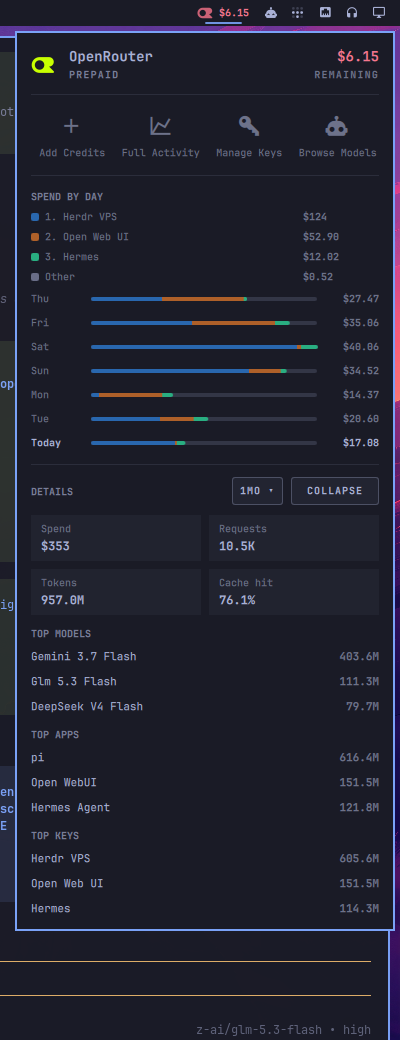
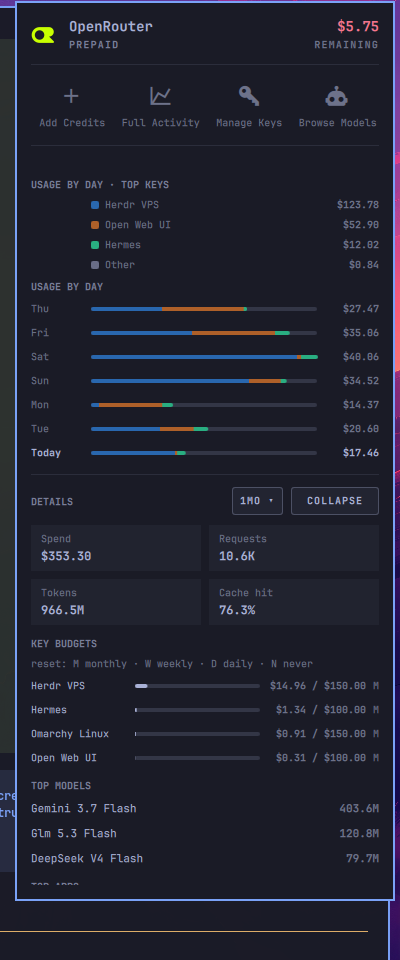
Final polish: titles, spacing, cadence letters, consistent amounts
- The chart splits into two titled blocks: USAGE BY DAY over the bars
  and USAGE BY DAY - TOP KEYS over the legend, each directly above
  what it names
- The reset cadence letter gets a space before it, renders dimmed in
  its own right-aligned slot, and a one-line legend under the KEY
  BUDGETS header spells out the meaning so tooltips stay optional
  (they do exist: every budget row shows remaining and cadence on
  hover)
- formatCost always prints two decimals below $1000, so $123.78 no
  longer collapses to $124 and every amount column lines up
- Breathing room between the account links and the first section
- README reworded for the new titles and budget features, with a
  fresh screenshot

diff --git a/Panel.qml b/Panel.qml
@@ -87,7 +87,8 @@ Panel {
     var n = Number(value || 0)
     if (!(n >= 0)) n = 0
     if (n >= 1000) return "$" + (n / 1000).toFixed(1) + "k"
-    return "$" + (n >= 100 ? n.toFixed(0) : n.toFixed(2))
+    // Always two decimals so a column of amounts never mixes widths.
+    return "$" + n.toFixed(2)
   }
 
   function balanceDetailText(b) {
@@ -641,6 +642,13 @@ Panel {
             foreground: root.foreground
           }
 
+          Item {
+            // Breathing room between the account links and the first section.
+            visible: spendSection.visible
+            width: parent.width
+            height: Style.space(6)
+          }
+
           Column {
             id: spendSection
             visible: root.days.length > 0
@@ -650,8 +658,9 @@ Panel {
             readonly property real peak: root.weekPeak()
 
             PanelSectionHeader {
+              visible: root.keyedBars
               width: parent.width
-              text: "USAGE THIS WEEK"
+              text: "USAGE BY DAY · TOP KEYS"
               foreground: root.foreground
               fontFamily: root.fontFamily
             }
@@ -716,6 +725,13 @@ Panel {
                   }
                 }
               }
+            }
+
+            PanelSectionHeader {
+              width: parent.width
+              text: "USAGE BY DAY"
+              foreground: root.foreground
+              fontFamily: root.fontFamily
             }
 
             Repeater {
@@ -882,6 +898,17 @@ Panel {
                   text: "KEY BUDGETS"
                   foreground: root.foreground
                   fontFamily: root.fontFamily
+                }
+
+                // What the trailing cadence letter on each row means.
+                Text {
+                  textFormat: Text.PlainText
+                  visible: budgetsSection.visible
+                  width: parent.width
+                  text: "reset: M monthly · W weekly · D daily · N never"
+                  color: root.dim
+                  font.family: root.fontFamily
+                  font.pixelSize: Style.font.caption
                 }
 
                 Repeater {
@@ -1112,16 +1139,32 @@ Panel {
       id: budgetValue
       text: budgetRow.budget
         ? root.formatMoney(budgetRow.budget.used) + " / " + root.formatMoney(budgetRow.budget.limit)
-          + root.resetLetter(budgetRow.budget.reset)
         : ""
       color: budgetRow.alarming ? root.urgent : root.dim
       font.family: root.fontFamily
       font.pixelSize: Style.font.caption
       font.bold: true
       horizontalAlignment: Text.AlignRight
-      anchors.right: parent.right
+      anchors.right: resetLetterText.left
+      anchors.rightMargin: Style.space(3)
       anchors.verticalCenter: parent.verticalCenter
       width: Style.space(96)
+    }
+
+    // Trailing cadence letter: dimmed so it reads as an annotation, with
+    // its meaning spelled out in the row's tooltip.
+    Text {
+      textFormat: Text.PlainText
+      id: resetLetterText
+      visible: text !== ""
+      text: budgetRow.budget ? root.resetLetter(budgetRow.budget.reset) : ""
+      color: root.dim
+      font.family: root.fontFamily
+      font.pixelSize: Style.font.caption
+      anchors.right: parent.right
+      anchors.verticalCenter: parent.verticalCenter
+      width: Style.space(10)
+      horizontalAlignment: Text.AlignRight
     }
 
     MouseArea {

diff --git a/README.md b/README.md
@@ -7,8 +7,8 @@ Live OpenRouter account usage in the Omarchy (Quattro / 4.x) bar, powered entire
 - **Bar** — OpenRouter mark plus remaining prepaid credit (turns red at < 10% of your declared top-up)
 - **Header** — remaining balance, tier
 - **Shortcuts** — Add Credits, Full Activity, Manage Keys, Browse Models
-- **Spend by day** — last 7 days of account-wide spend; each bar is segmented by the week's **top three API keys** (consistent colors across days), with everything else folded into **Other** and a ranked legend underneath
-- **Key budgets** — per-key spend caps with drain meters (from OpenRouter's per-key limits), sorted most-drained first; turns red at 90%
+- **Usage by day** — last 7 days of account-wide spend; each bar is segmented by the week's **top three API keys** (consistent colors across days), with everything else folded into **Other** and a ranked legend above the chart
+- **Key budgets** — per-key spend caps with drain meters (from OpenRouter's per-key limits), sorted most-drained first; the gauge ramps toward red as a key approaches its cap, and a trailing letter gives the reset cadence (M monthly · W weekly · D daily · N never)
 - **Details** — spend, requests, tokens, cache hit rate, top models, top apps, top keys
 
 Derived from [calmasacow/omarchy-openrouter-usage-plus](https://github.com/calmasacow/omarchy-openrouter-usage-plus) (MIT, itself derived from sepehr500's widget).
@@ -54,7 +54,7 @@ Example (`examples/config/omarchy/agents/openrouter.json`):
 | Balance / remaining | `/credits` | lifetime purchases minus lifetime usage |
 | Key limit bar | `/key` | only if a per-key limit is set on the key |
 | Spend by day (7 days) | `/analytics/query`, one query per day | account-wide, all keys, all devices; local-calendar day windows converted to UTC; today's partial day included |
-| Key-colored bars + legend | `/analytics/query` grouped by `api_key_id` | ranked by cost across the whole week; top 3 get fixed hues, the rest is Other; a single-key account renders plain |
+| Usage by day (bars + top keys legend) | `/analytics/query` grouped by `api_key_id` | ranked by cost across the whole week; top 3 get fixed hues, the rest is Other; a single-key account renders plain |
 | Key budgets | `/keys` | per-key cap (`limit`), current-period draw (`limit - limit_remaining`), and reset cadence; hidden entirely when no key has a cap set |
 | Details cards & ranked lists | `/analytics/query` | 7d / 1mo / 3mo window, switchable in the panel |
 
